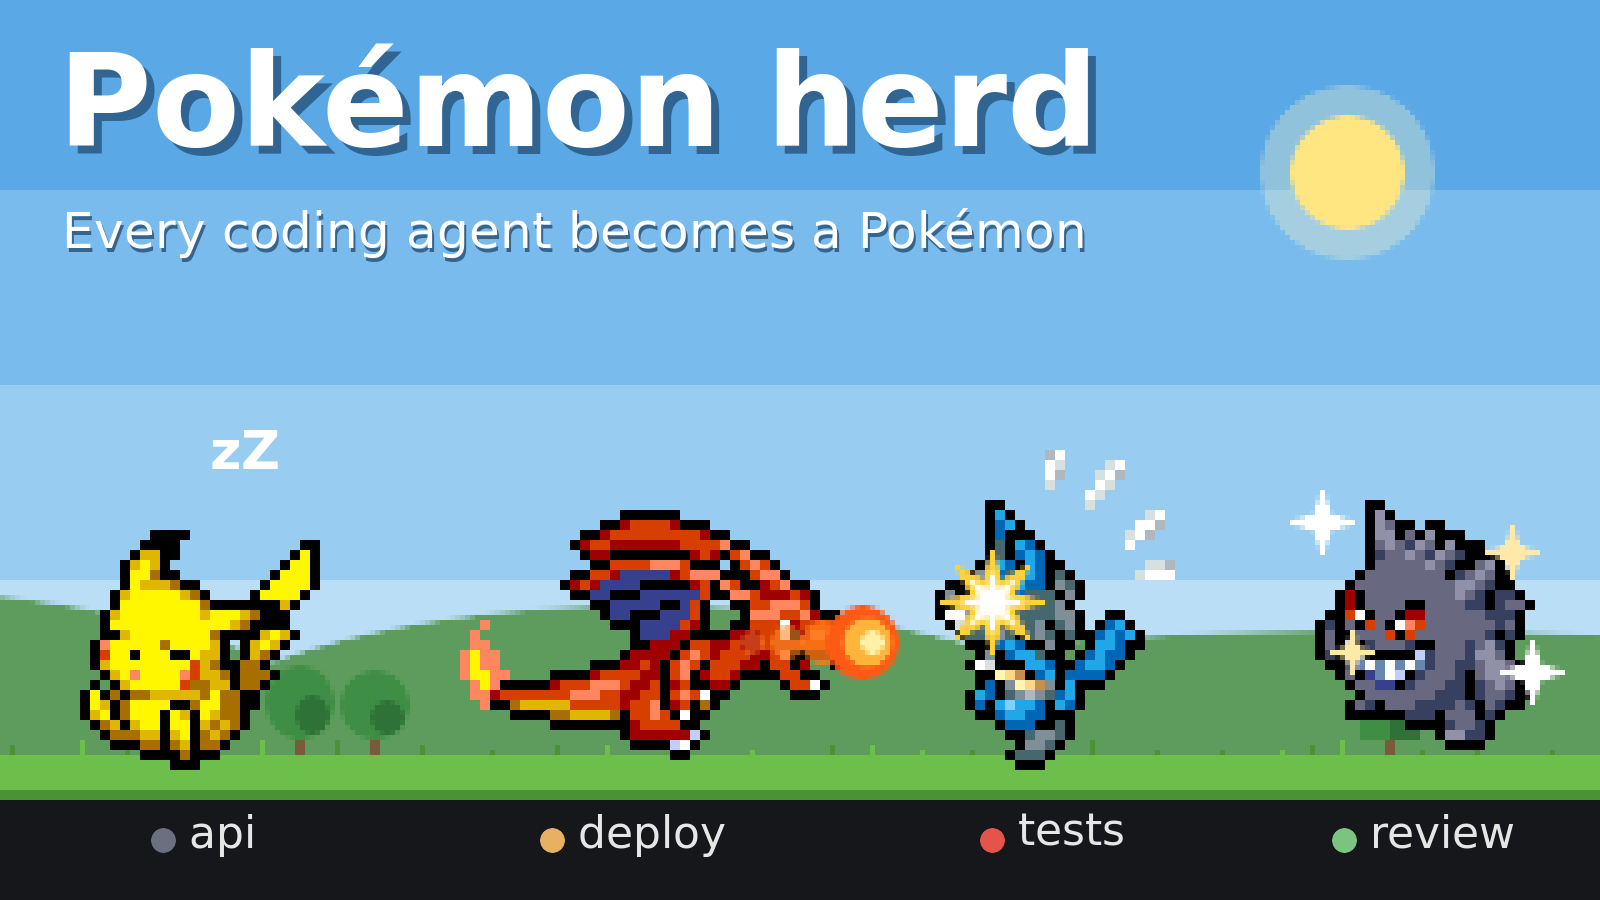
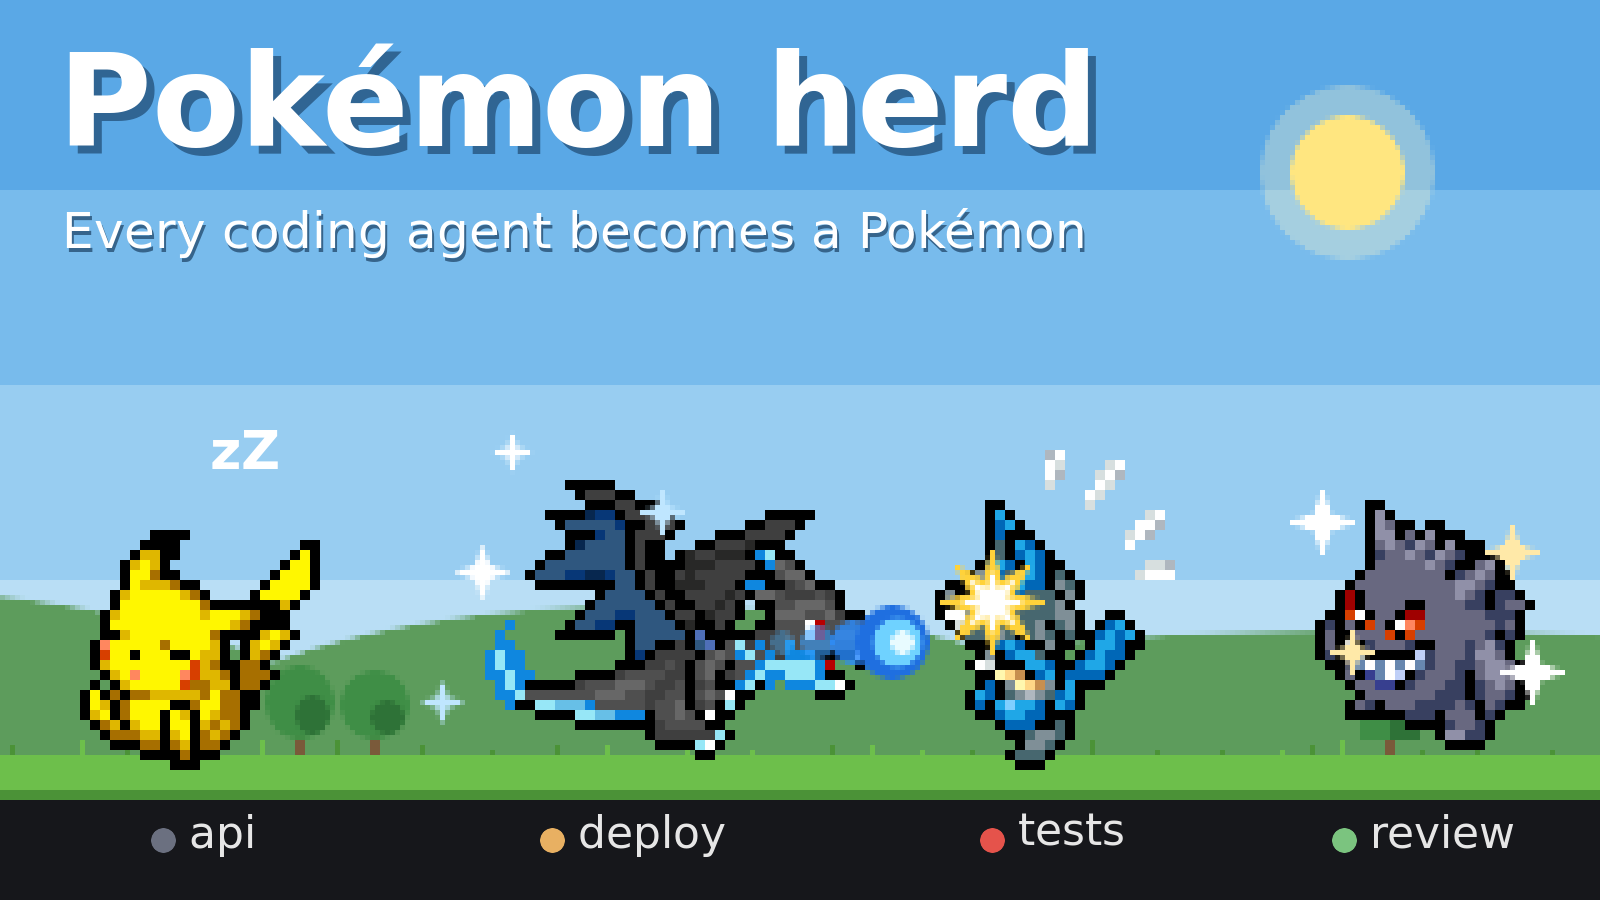
Preview and battle demo: Mega Charizard X (sparkling) with a blue fireball

Changed region(s): [[0.25, 0.5289, 0.5938, 0.84], [0.3125, 0.4978, 0.3438, 0.5289]]

diff --git a/scripts/make-demos.py b/scripts/make-demos.py
@@ -529,15 +529,25 @@ def bright_sky(width, height, horizon, tmp, name):
     return path
 
 
-def fireball(x, y, k=1.0):
+FIRE = {"orange": ["#ff9a3c", "#ff8a2a", "#ff7a1a", "#ff5a14", "#ffb43a", "#fff2a8"],
+        "blue": ["#4fb4ff", "#3aa0ff", "#2a8cff", "#1f6fe0", "#6fd2ff", "#e8fbff"]}  # Mega Charizard X burns blue
+
+
+def fireball(x, y, k=1.0, color="orange"):
     """A pixel fireball flying right, its trail behind it (ImageMagick draw args)."""
+    c = FIRE[color]
     out = []
-    for i, (dx, r, c) in enumerate([(-22, 2, "#ff9a3c66"), (-15, 3, "#ff8a2a99"), (-8, 4, "#ff7a1acc")]):
-        out += ["-fill", c, "-draw", f"circle {x + dx},{y} {x + dx + r * k},{y}"]
-    out += ["-fill", "#ff5a14", "-draw", f"circle {x},{y} {x + 7 * k},{y}",
-            "-fill", "#ffb43a", "-draw", f"circle {x + 1},{y} {x + 1 + 4.5 * k},{y}",
-            "-fill", "#fff2a8", "-draw", f"circle {x + 2},{y} {x + 2 + 2 * k},{y}"]
+    for dx, r, col in [(-22, 2, c[0] + "66"), (-15, 3, c[1] + "99"), (-8, 4, c[2] + "cc")]:
+        out += ["-fill", col, "-draw", f"circle {x + dx},{y} {x + dx + r * k},{y}"]
+    out += ["-fill", c[3], "-draw", f"circle {x},{y} {x + 7 * k},{y}",
+            "-fill", c[4], "-draw", f"circle {x + 1},{y} {x + 1 + 4.5 * k},{y}",
+            "-fill", c[5], "-draw", f"circle {x + 2},{y} {x + 2 + 2 * k},{y}"]
     return out
+
+
+def star(cx, cy, r, color):
+    """A four-pointed sparkle (ImageMagick draw args)."""
+    return ["-fill", color, "-draw", f"polygon {cx},{cy - r * 2} {cx + r * .5},{cy - r * .5} {cx + r * 2},{cy} {cx + r * .5},{cy + r * .5} {cx},{cy + r * 2} {cx - r * .5},{cy + r * .5} {cx - r * 2},{cy} {cx - r * .5},{cy - r * .5}"]
 
 
 def burst(x, y, r=12):
@@ -554,7 +564,7 @@ def burst(x, y, r=12):
 def preview(tmp):
     """preview.png at the repo root (the herdr.dev gallery card, 1600x900). The card shows it about
     245 px wide (a 6.5x shrink), so it carries little and big: a 320x180 pixel scene at 5x on a
-    bright day (a battle: Charizard's fire flying at Lucario; Pikachu asleep; a shiny Gengar
+    bright day (a battle: Mega Charizard X's blue fire flying at Lucario; Pikachu asleep; a shiny Gengar
     sparkling), and the name in large type over the sky. Small sprites or thin text turn to mush
     at that size."""
     A = lambda f, n: Anim.get(f, n, tmp)
@@ -562,7 +572,7 @@ def preview(tmp):
     horizon = 150
     ground = horizon + 4
     sky_png = bright_sky(W, H, horizon, tmp, "preview")
-    zard, luc = A("0006", "react-SpAttackR"), A("0448", "react-HurtL")
+    zard, luc = A("0006-0001", "react-SpAttackR"), A("0448", "react-HurtL")
     pika, geng = A("0025", "sleep"), A("0094s", "idleL")
     X = {"pika": 40, "zard": 126, "luc": 210, "geng": 284}
     scene = [("pika", pika, X["pika"], 300), ("zard", zard, X["zard"], 250), ("luc", luc, X["luc"], 300), ("geng", geng, X["geng"], 0)]
@@ -573,7 +583,10 @@ def preview(tmp):
         args += [an.at(t), "-geometry", f"+{x}+{y}", "-composite"]
         heads[key] = (cx, ground - an.height())
     # Charizard's special move: a fireball halfway, and the hit on Lucario.
-    args += fireball(X["zard"] + 52, ground - 26)
+    args += fireball(X["zard"] + 52, ground - 26, color="blue")
+    # Mega Evolved as its agent got to work: sparkles round it.
+    for dx, dy, r, c in [(-30, -40, 2.4, "#ffffff"), (-38, -14, 1.8, "#bfe6ff"), (6, -52, 2, "#bfe6ff"), (-24, -64, 1.6, "#ffffff")]:
+        args += star(X["zard"] + dx, ground + dy, r, c)
     args += burst(X["luc"] - 12, ground - 34, 10)
     # The shiny's sparkles.
     gx, gy = heads["geng"]
@@ -606,8 +619,8 @@ def preview(tmp):
 
 
 def battle(tmp):
-    """README's hero: a battle on a bright day. Charizard and Lucario face off; each strikes, the
-    other flinches; then Charizard's special move, a fireball, knocks Lucario back. Pikachu sleeps
+    """README's hero: a battle on a bright day. Mega Charizard X and Lucario face off; each strikes,
+    the other flinches; then its special move, a blue fireball, knocks Lucario back. Pikachu sleeps
     through it; a shiny Gengar watches. 270x130 at 2x, names under their feet."""
     A = lambda f, n: Anim.get(f, n, tmp)
     W, H, Z = 270, 118, 2
@@ -622,10 +635,10 @@ def battle(tmp):
         def play(folder, name, start):
             return A(folder, name), t - start
         # Charizard: idle, strike (1.0 s), flinch (1.9 s), special move (2.7 s), idle.
-        if 1000 <= t < 1600: z = play("0006", "react-AttackR", 1000)
-        elif 2150 <= t < 2700: z = play("0006", "react-HurtR", 2150)
-        elif 2800 <= t < 3500: z = play("0006", "react-SpAttackR", 2800)
-        else: z = play("0006", "idleR", 0)
+        if 1000 <= t < 1600: z = play("0006-0001", "react-AttackR", 1000)
+        elif 2150 <= t < 2700: z = play("0006-0001", "react-HurtR", 2150)
+        elif 2800 <= t < 3500: z = play("0006-0001", "react-SpAttackR", 2800)
+        else: z = play("0006-0001", "idleR", 0)
         if 1300 <= t < 1900: l = play("0448", "react-HurtL", 1300)
         elif 1900 <= t < 2500: l = play("0448", "react-AttackL", 1900)
         elif 3350 <= t < 4300: l = play("0448", "react-HurtL", 3350)
@@ -639,7 +652,7 @@ def battle(tmp):
         if 2150 <= t < 2350: args += burst(zx + 8, ground - 26, 7)
         if 3000 <= t < 3350:  # the fireball, across
             f = (t - 3000) / 350
-            args += fireball(round(zx + 44 + f * (lx - zx - 58)), ground - 22, 0.9)
+            args += fireball(round(zx + 44 + f * (lx - zx - 58)), ground - 22, 0.9, "blue")
         if 3350 <= t < 3700: args += burst(lx - 8, ground - 26, 10 if t < 3500 else 7)
         # The shiny's sparkles, twinkling.
         for j, (dx, dy, r) in enumerate([(-15, -38, 2.2), (12, -30, 1.8), (-12, -14, 1.6), (15, -10, 2.2)]):
@@ -666,7 +679,7 @@ def battle(tmp):
 SCENES = {"herd": herd, "focus": focus, "reactions": reactions, "variety": variety, "charizard-mega": charizard_mega, "seasons": seasons, "preview": preview, "party": party, "battle": battle}
 NEEDS = {"herd": ["0025", "0445", "0003", "0493", "0009", "0006-0001"], "focus": ["0025", "0003", "0493"],
          "reactions": ["0003", "0445"], "variety": ["0025", "0025s", "0037-0001", "0006-0001"],
-         "charizard-mega": ["0006", "0006-0001"], "seasons": ["0025", "0009", "0006-0001"], "preview": ["0025", "0006", "0448", "0094s"], "party": [], "battle": ["0025", "0006", "0448", "0094s"]}
+         "charizard-mega": ["0006", "0006-0001"], "seasons": ["0025", "0009", "0006-0001"], "preview": ["0025", "0006-0001", "0448", "0094s"], "party": [], "battle": ["0025", "0006-0001", "0448", "0094s"]}
 
 
 def main():

diff --git a/README.md b/README.md
@@ -4,7 +4,7 @@ Every coding agent in [Herdr](https://herdr.dev) becomes a pixel-art Pokémon. I
 its agent works, naps when it's idle, and calls for you when it's blocked. Click one to jump
 to its agent.
 
-<p align="center"><img src="docs/demo/battle.gif" alt="On a bright day Charizard and Lucario trade blows, then Charizard's fireball knocks Lucario back; Pikachu sleeps through it and a shiny Gengar sparkles" width="540"></p>
+<p align="center"><img src="docs/demo/battle.gif" alt="On a bright day Mega Charizard X and Lucario trade blows, then its blue fireball knocks Lucario back; Pikachu sleeps through it and a shiny Gengar sparkles" width="540"></p>
 
 <p align="center"><img src="docs/demo/herd.gif" alt="A herd of Pokémon in Herdr's sidebar, two rows, each named after its agent" width="540"></p>
 
